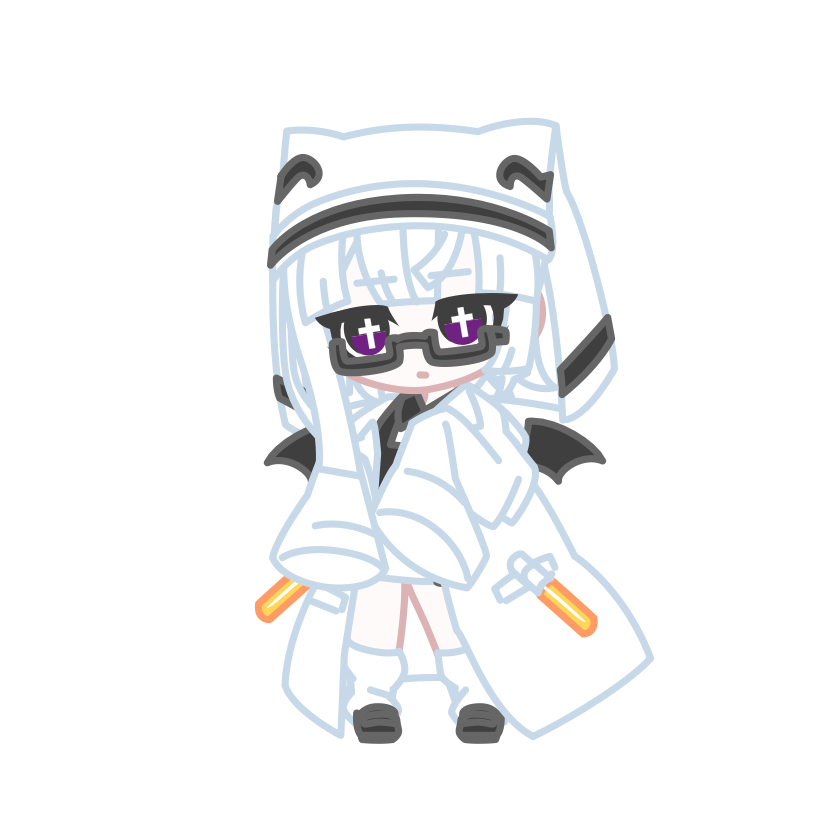
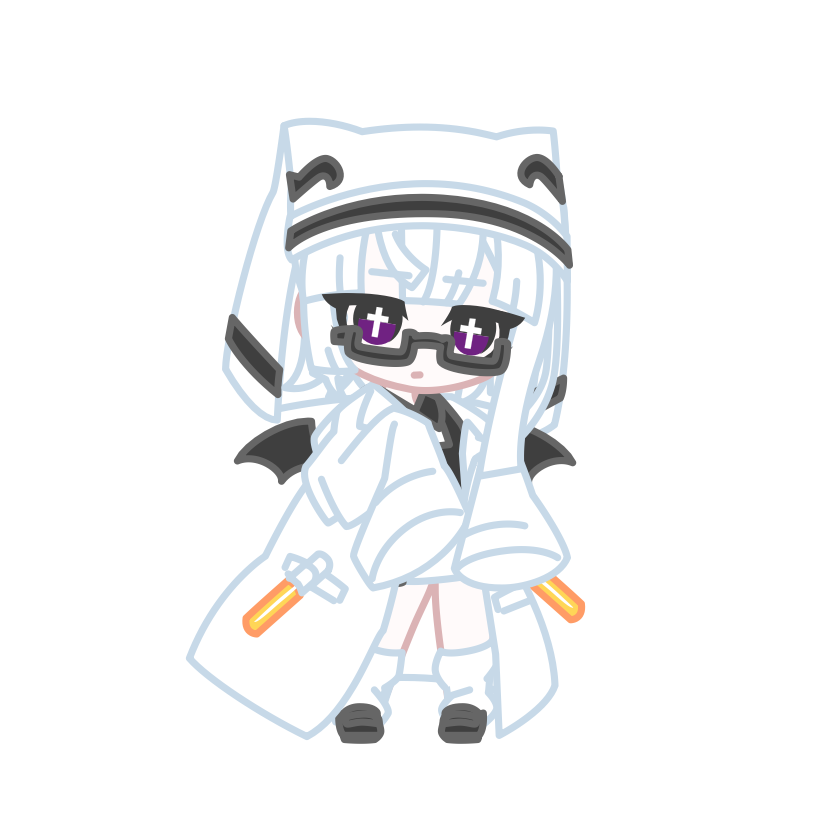
トップのアイコンとメインヴィジュアルとプロフィールの画像を全て変更

Changed region(s): [[0.2476, 0.1238, 0.7738, 0.8976], [0.2167, 0.7429, 0.2476, 0.8048], [0.7119, 0.8048, 0.7429, 0.8357]]

diff --git a/index.html b/index.html
@@ -133,7 +133,9 @@
             <div class="bl_cardUnit bl_cardUnit__col3">
                 <div class="bl_card">
                     <figure class="bl_card_imgWrapper">
-                        <img src="./assets/img/elements/tensai_icon_2021_02_500x500.png" alt="天才 公式アイコン">
+                        <img src="./assets/img/elements/twitter_icon_hanten_400x400.jpg" alt="天才 公式アイコン">
+                        <!-- カードの画像の別バージョン -->>
+                        <!-- <img src="./assets/img/elements/noimage_1024x898.png" alt="li girl 天才エンジニアプロフィール画像"> -->
                     </figure>
                     <div class="bl_card_body">
                         <h3 class="bl_card_ttl">天才 とは</h3>
